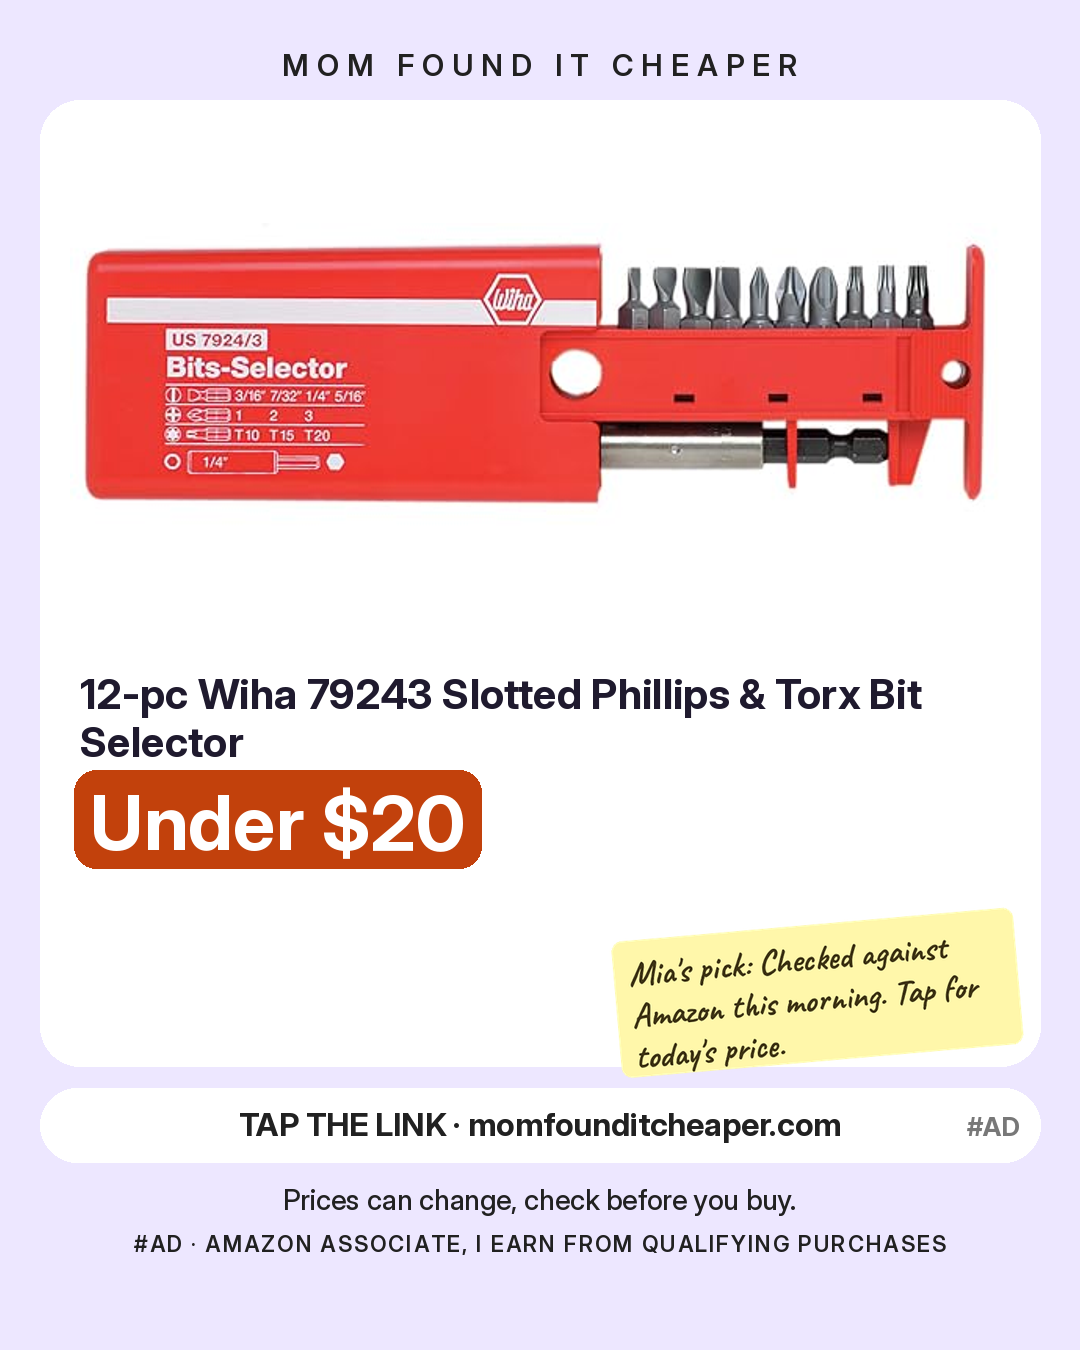
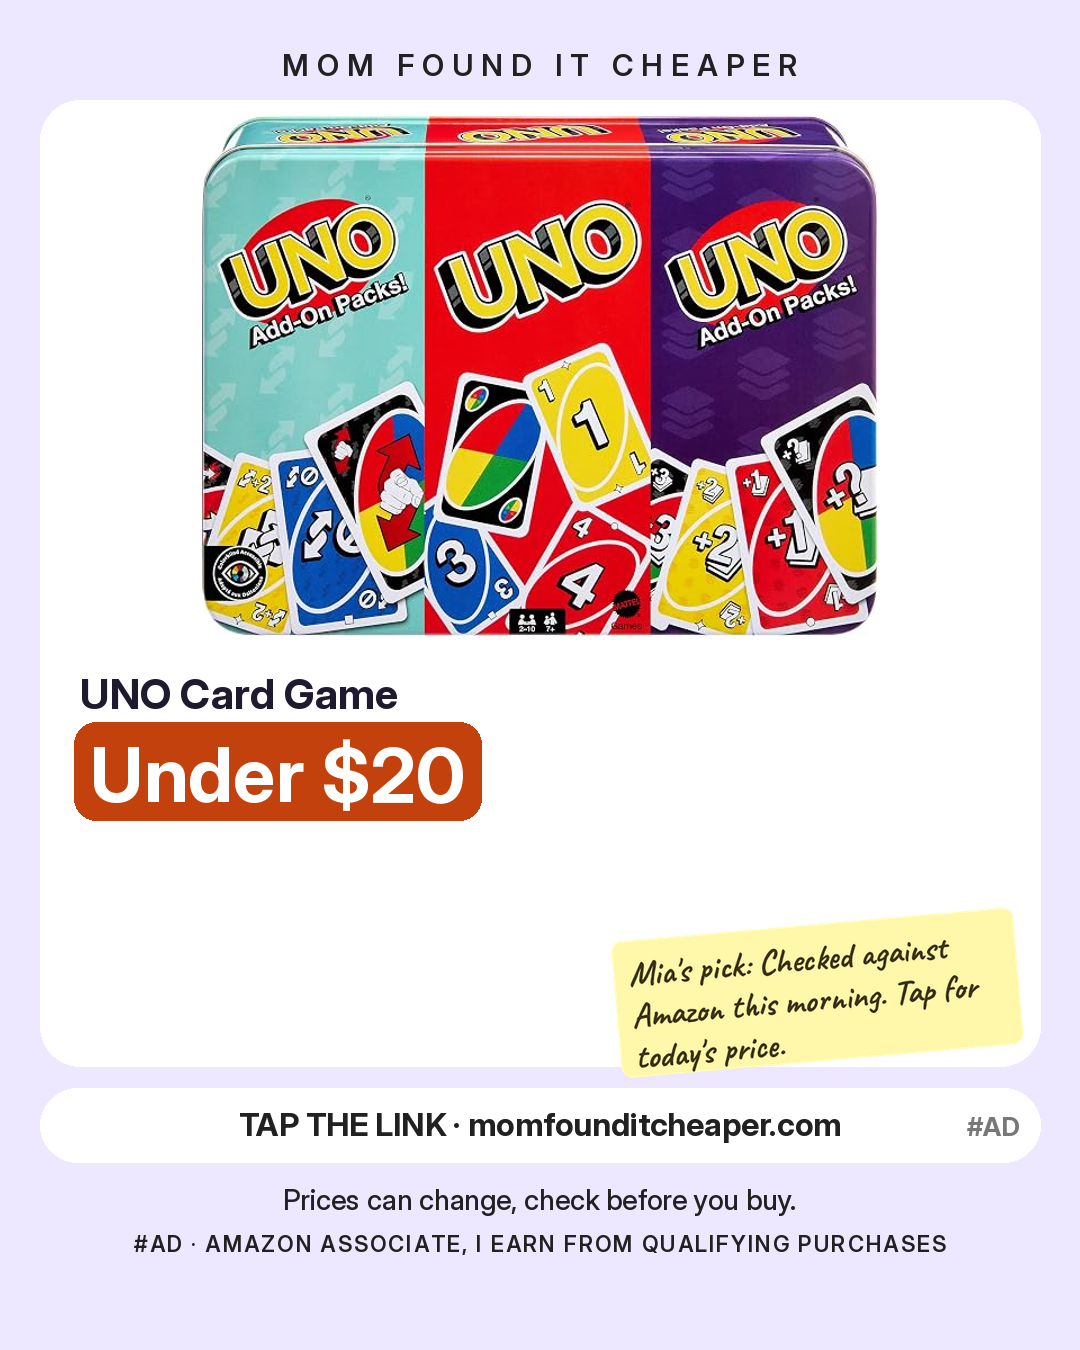
Update videos list

Changed region(s): [[0.0611, 0.0622, 0.9167, 0.6533]]

diff --git a/queue/QUEUE.md b/queue/QUEUE.md
@@ -2,39 +2,199 @@
 
 Reply with the numbers to approve, e.g. `post 1, q2; video 3; eng poll`. Nothing is posted until you say so.
 
-## Posts that passed strict QA (2)
-### post_single — Mom's pick (ok with warnings)
+## Posts that passed strict QA (11)
+### post_3 — Under $25 finds (ok)
 ```
 CAPTION:
-Mia's pick today: 12-pc Wiha 79243 Slotted Phillips & Torx Bit Selector.
-Checked against Amazon this morning. Tap for today's price.
-See it here: https://momfounditcheaper.com/#d-05d0645202
+✨ Under $25 finds: Klein Tools 32516HD KNECT 16-in-1 Impact-Rated Hybrid Screwdriver, 4" Workpro Stubby Adjustable Wrench and 13" Franklin Sports Field Master V Web Baseball Mitt
+Tell us which one you want and we will keep an eye out for more like it.
+All three, checked against Amazon this morning: https://momfounditcheaper.com/
+#ad As an Amazon Associate I earn from qualifying purchases.
+
+#ad #savemoney #momhacks #amazonfinds
+
+FIRST COMMENT (paste after posting):
+Shop here (prices and codes can change):
+Klein Tools 32516HD KNECT 16-in-1 Impact-Rated Hybrid Screwdriver
+https://www.amazon.com/dp/B0DK2H7G5G?tag=momfounditc08-20
+4" Workpro Stubby Adjustable Wrench
+https://www.amazon.com/dp/B0CVXKVCZ7?tag=momfounditc08-20
+13" Franklin Sports Field Master V Web Baseball Mitt
+https://www.amazon.com/dp/B013LPRERW?tag=momfounditc08-20
+As an Amazon Associate I earn from qualifying purcha
+```
+
+### post_5 — Stocking stuffers under $10 (ok with warnings)
+```
+CAPTION:
+✨ Stocking stuffers under $10: HAMUNI Slouchy Beanie Unisex Soft Lightweight Headwear AC, 72-Piece BePuzzled Disney Frozen Sven Deluxe Original 3D Crystal Puzzle and 576-Piece Beetles Short Almond Gel Nail Tips Kit
+Tell us which one you want and we will keep an eye out for more like it.
+All three, checked against Amazon this morning: https://momfounditcheaper.com/
+#ad As an Amazon Associate I earn from qualifying purchases.
+
+#ad #amazonfinds #momfinds #founditcheaper
+
+FIRST COMMENT (paste after posting):
+Shop here (prices and codes can change):
+HAMUNI Slouchy Beanie Unisex Soft Lightweight Headwear AC
+https://www.amazon.com/dp/B0CDPJ484V?tag=momfounditc08-20
+72-Piece BePuzzled Disney Frozen Sven Deluxe Original 3D Crystal Puzzle
+https://www.amazon.com/dp/B07QQ3GRZD?tag=momfounditc08-20
+576-Piece Beetles Short Almond Gel Nail Tips Kit
+https://www.amazon.com/dp/B0D69LN5ZF?tag=momf
+```
+
+### post_9 — Outdoor & tools under $100 (ok)
+```
+CAPTION:
+✨ Outdoor & tools under $100: 14-Piece Wiha Insulated Bit Holder Screw Driver, 12-pc Wiha 79243 Slotted Phillips & Torx Bit Selector and Char-Broil The Big Easy Oil-Less Turkey Fryer
+Which would you grab first?
+All three, checked against Amazon this morning: https://momfounditcheaper.com/
+#ad As an Amazon Associate I earn from qualifying purchases.
+
+#ad #blackfriday #momfinds #dealoftheday
+
+FIRST COMMENT (paste after posting):
+Shop here (prices and codes can change):
+14-Piece Wiha Insulated Bit Holder Screw Driver
+https://www.amazon.com/dp/B075FFCD9L?tag=momfounditc08-20
+12-pc Wiha 79243 Slotted Phillips & Torx Bit Selector
+https://www.amazon.com/dp/B000F0KC4E?tag=momfounditc08-20
+Char-Broil The Big Easy Oil-Less Turkey Fryer
+https://www.amazon.com/dp/B0DQ1YNRXF?tag=momfounditc08-20
+As an Amazon Associate I earn from qualifying purchases.
+```
+
+### post_11 — Home & kitchen under $50 (ok)
+```
+CAPTION:
+✨ Home & kitchen under $50: Step Lively Anti- Fatigue 2 PCS Cushioned Kitchen Mats for Floor, ECR4Kids 2-in-1 Adjustable Hardwood Sit or Step Stool and DUMOS 31.5 Inch Small Computer Desk
+Which would you grab first?
+All three, checked against Amazon this morning: https://momfounditcheaper.com/
 #ad As an Amazon Associate I earn from qualifying purchases.
 
 #ad #dealsforyou #momlife #budgetfinds
 
 FIRST COMMENT (paste after posting):
 Shop here (prices and codes can change):
-https://www.amazon.com/dp/B000F0KC4E?tag=momfounditc08-20
+Step Lively Anti- Fatigue 2 PCS Cushioned Kitchen Mats for Floor
+https://www.amazon.com/dp/B0F6MP7RDJ?tag=momfounditc08-20
+ECR4Kids 2-in-1 Adjustable Hardwood Sit or Step Stool
+https://www.amazon.com/dp/B079D381ZR?tag=momfounditc08-20
+DUMOS 31.5 Inch Small Computer Desk
+https://www.amazon.com/dp/B0HM36F6DY?tag=momfounditc08-20
 As an Amazon Associate I earn from qualifying purchases.
 ```
 
-### post_thisorthat — THIS or THAT (ok)
+### post_single — Mom's pick (ok)
 ```
 CAPTION:
-THIS or THAT? 🛒
-A: The Super Mario Galaxy Movie:
-B: Blue Beetle
-Which would you pick, A or B?
-Both checked against Amazon this morning: https://momfounditcheaper.com/
+Mia's pick today: UNO Card Game.
+Checked against Amazon this morning. Tap for today's price.
+See it here: https://momfounditcheaper.com/#d-f08e031e9f
 #ad As an Amazon Associate I earn from qualifying purchases.
 
 #ad #amazondeals #giftideas #founditcheaper
 
 FIRST COMMENT (paste after posting):
 Shop here (prices and codes can change):
-A: https://www.amazon.com/dp/B0GQTDPJ36?tag=momfounditc08-20
-B: https://www.amazon.com/dp/B0CFZ3132H?tag=momfounditc08-20
+https://www.amazon.com/dp/B0D9R9WBQT?tag=momfounditc08-20
+As an Amazon Associate I earn from qualifying purchases.
+```
+
+### post_q3 — Quick deal: 30% OFF (ok)
+```
+CAPTION:
+Price drop on Amazon: SwitchBot CO2 Detector.
+Checked against Amazon this morning. Tap for today's price.
+See it here: https://momfounditcheaper.com/#d-bfc8abdf2d
+#ad As an Amazon Associate I earn from qualifying purchases.
+
+#ad #amazonfinds #momfinds #founditcheaper
+
+FIRST COMMENT (paste after posting):
+Shop here (prices and codes can change):
+https://www.amazon.com/dp/B0DLN46519?tag=momfounditc08-20
+As an Amazon Associate I earn from qualifying purchases.
+```
+
+### post_q4 — Quick deal: 23% OFF (ok)
+```
+CAPTION:
+Price drop on Amazon: Philips Smart Lock Matter Over Thread.
+Checked against Amazon this morning. Tap for today's price.
+See it here: https://momfounditcheaper.com/#d-cc3796f0e3
+#ad As an Amazon Associate I earn from qualifying purchases.
+
+#ad #dealsforyou #momlife #budgetfinds
+
+FIRST COMMENT (paste after posting):
+Shop here (prices and codes can change):
+https://www.amazon.com/dp/B0FXM1QCVT?tag=momfounditc08-20
+As an Amazon Associate I earn from qualifying purchases.
+```
+
+### post_q5 — Quick deal: 20% OFF (ok)
+```
+CAPTION:
+Price drop on Amazon: 329-pc. LEGO Speed Champions Ferrari 499P.
+Checked against Amazon this morning. Tap for today's price.
+See it here: https://momfounditcheaper.com/#d-121fc5f484
+#ad As an Amazon Associate I earn from qualifying purchases.
+
+#ad #amazondeals #giftideas #founditcheaper
+
+FIRST COMMENT (paste after posting):
+Shop here (prices and codes can change):
+https://www.amazon.com/dp/B0G2T43599?tag=momfounditc08-20
+As an Amazon Associate I earn from qualifying purchases.
+```
+
+### post_q6 — Quick deal: 54% OFF (ok)
+```
+CAPTION:
+Price drop on Amazon: Texas Instruments TI-84 Evo Graphing Calculator.
+Checked against Amazon this morning. Tap for today's price.
+See it here: https://momfounditcheaper.com/#d-4f53c9c988
+#ad As an Amazon Associate I earn from qualifying purchases.
+
+#ad #savemoney #momhacks #amazonfinds
+
+FIRST COMMENT (paste after posting):
+Shop here (prices and codes can change):
+https://www.amazon.com/dp/B0G8QXXF8B?tag=momfounditc08-20
+As an Amazon Associate I earn from qualifying purchases.
+```
+
+### post_q7 — Quick deal: 23% OFF (ok)
+```
+CAPTION:
+Price drop on Amazon: Gibson Home Rothernberg 18-Piece Porcelain Dinnerware Set.
+Checked against Amazon this morning. Tap for today's price.
+See it here: https://momfounditcheaper.com/#d-924bc84c26
+#ad As an Amazon Associate I earn from qualifying purchases.
+
+#ad #blackfriday #momfinds #dealoftheday
+
+FIRST COMMENT (paste after posting):
+Shop here (prices and codes can change):
+https://www.amazon.com/dp/B0GWRVM27R?tag=momfounditc08-20
+As an Amazon Associate I earn from qualifying purchases.
+```
+
+### post_q8 — Quick deal: 40% OFF (ok)
+```
+CAPTION:
+Price drop on Amazon: Shark Navigator Lift-Away Vacuum.
+Checked against Amazon this morning. Tap for today's price.
+See it here: https://momfounditcheaper.com/#d-05160a6751
+#ad As an Amazon Associate I earn from qualifying purchases.
+
+#ad #amazonfinds #momfinds #founditcheaper
+
+FIRST COMMENT (paste after posting):
+Shop here (prices and codes can change):
+https://www.amazon.com/dp/B005KMDV9A?tag=momfounditc08-20
 As an Amazon Associate I earn from qualifying purchases.
 ```
 

diff --git a/POST_QA.md b/POST_QA.md
@@ -1,5 +1,42 @@
 # Post QA
 
-## post_single (Mom's pick): ok with warnings
-- WARN: caption never names the product: $14.59* | 12-pc Wiha 79243 Slotted Phill
-## post_thisorthat (THIS or THAT): ok
+## post_1 (Under $10 finds): BLOCKED
+- BLOCKER: used/open-box seller (Sold by Amazon Resale and Fulf): Monopoly: The Classic Board Game with St
+## post_2 (Under $15 finds): BLOCKED
+- BLOCKER: title does not match Amazon page title 'LongBay Women's Slippers Boots Winter Warm Fuzzy B': Women’s Slipper Boots Only $14.99 on Ama
+- BLOCKER: claims 45% off without a valid list price: medicube Hyaluronic Moisturizing Cream O
+## post_3 (Under $25 finds): ok
+## post_4 (Black Friday early under $25): BLOCKED
+- BLOCKER: used/open-box seller (Sold by Amazon Resale and Fulf): Queen Bed Pillow 2-Pack w/ 100% Cotton C
+- BLOCKER: claims 56% off without a valid list price: Queen Bed Pillow 2-Pack w/ 100% Cotton C
+## post_5 (Stocking stuffers under $10): ok with warnings
+- WARN: name looks cut/junky: 'HAMUNI Slouchy Beanie Unisex Soft Lightweight Headwear AC'
+## post_6 (Tech worth a look): BLOCKED
+- BLOCKER: used/open-box seller (Sold by Amazon Resale and Fulf): TP-Link Roam 6 AX3000 Dual-Band WiFi 6 P
+- BLOCKER: title does not match Amazon page title '15.6" Digital Calendar Wall Touch Screen Family Pl': OVER $136 Off This Digital Calendar + Fr
+## post_7 (Toy & game under $50): BLOCKED
+- BLOCKER: title does not match Amazon page title 'Masters of the Universe 2026 Movie He-Man Power o': Masters of the Universe 2026 Movie He-M
+## post_8 (Fashion under $50): BLOCKED
+- BLOCKER: title does not match Amazon page title 'CS CELERSPORT 6 Pairs Ankle Athletic Running Socks': These Bombas-Inspired Socks Are Only $12
+- BLOCKER: claims 48% off without a valid list price: These Bombas-Inspired Socks Are Only $12
+- WARN: group mixes men's/women's/kids' items
+## post_9 (Outdoor & tools under $100): ok
+## post_10 (Gaming & fun under $25): BLOCKED
+- BLOCKER: used/open-box seller (Sold by Amazon Resale and Fulf): Razer Orochi V2 Wireless Gaming Mouse (B
+## post_11 (Home & kitchen under $50): ok
+## post_single (Mom's pick): ok
+## post_q1 (Quick deal: 54% OFF): BLOCKED
+- BLOCKER: used/open-box seller (Sold by Amazon Resale and Fulf): Logitech G309 Lightspeed Wireless Gaming
+## post_q2 (Quick deal: 37% OFF): BLOCKED
+- BLOCKER: used/open-box seller (Sold by Amazon Resale and Fulf): monTEK Full Motion TV Wall Mount for 37"
+## post_q3 (Quick deal: 30% OFF): ok
+## post_q4 (Quick deal: 23% OFF): ok
+## post_q5 (Quick deal: 20% OFF): ok
+## post_q6 (Quick deal: 54% OFF): ok
+## post_q7 (Quick deal: 23% OFF): ok
+## post_q8 (Quick deal: 40% OFF): ok
+## post_q9 (Quick deal: 30% OFF): BLOCKED
+- BLOCKER: title does not match Amazon page title 'HEETA Scalp Massager Hair Growth Scrubber for Dand': Silicone Scalp Massager Just $5.63 on Am
+- BLOCKER: claims 30% off without a valid list price: Silicone Scalp Massager Just $5.63 on Am
+## post_q10 (Quick deal: 31% OFF): BLOCKED
+- BLOCKER: used/open-box seller (Sold by Amazon Resale and Fulf): Eureka Whirlwind Bagless Canister Vacuum
